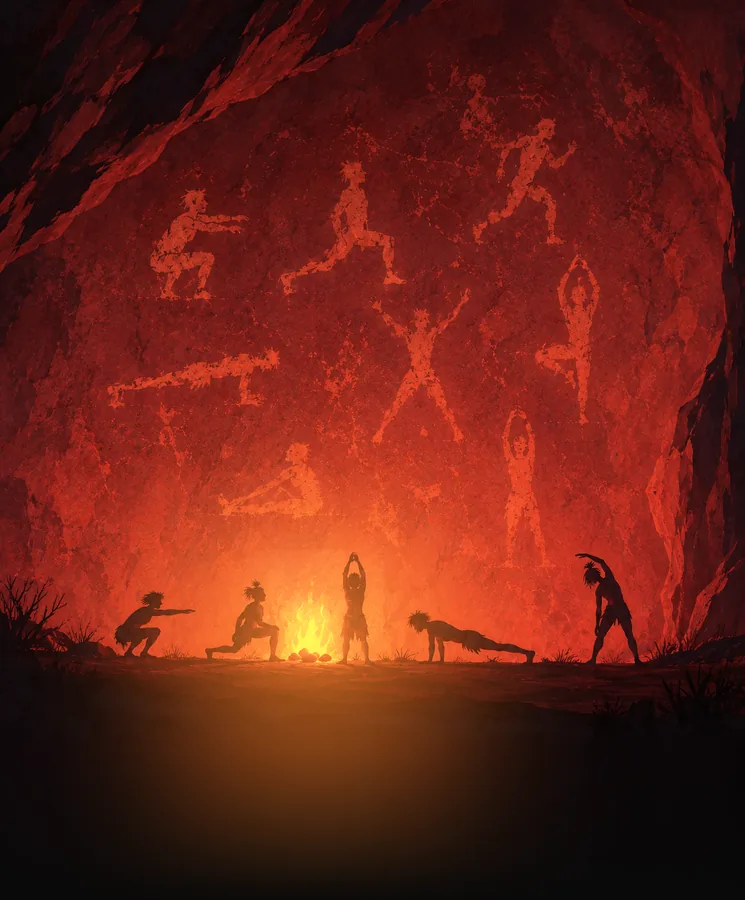
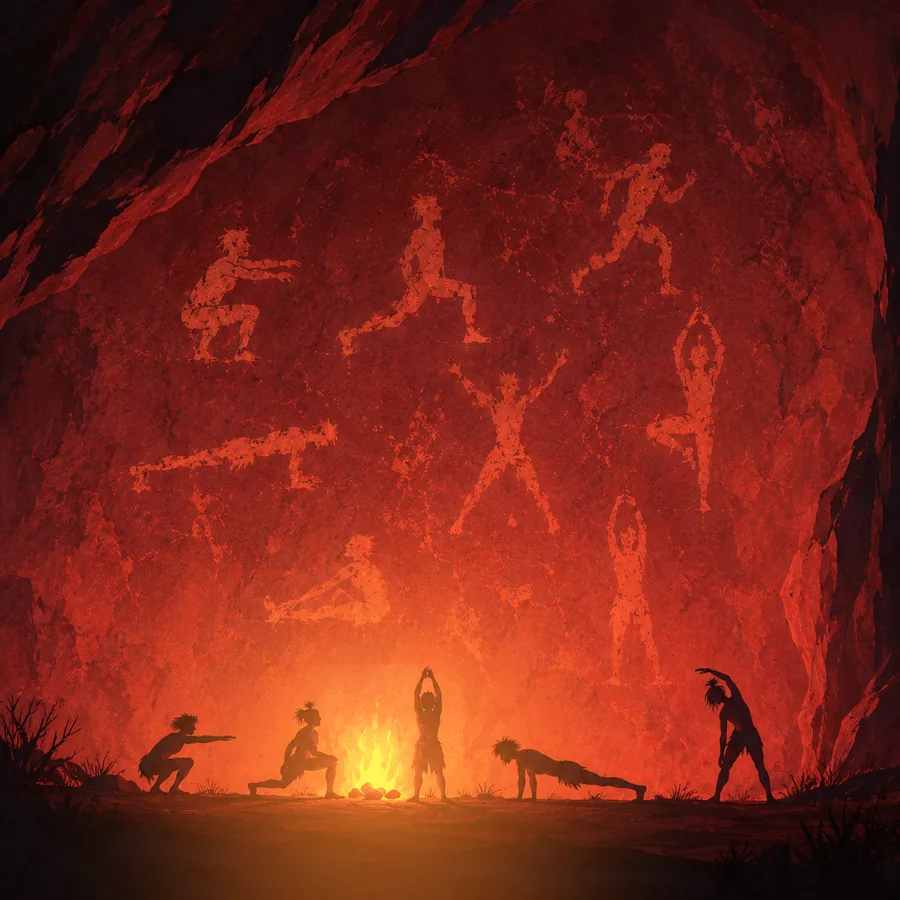
Dashboard: the cave ends on its own ground under the figures, Start Training just below (31b, Kd)

diff --git a/apps/mobile/src/look/colours.ts b/apps/mobile/src/look/colours.ts
@@ -75,7 +75,7 @@ export const pictureFadeUnderWords =
 
 /** The same, kept off the picture's lower part, where its own light is the point (the Dashboard's fire). */
 export const pictureFadeLight =
-  "linear-gradient(to top, rgba(10,9,8,1) 0%, rgba(10,9,8,0.6) 10%, rgba(10,9,8,0) 24%, rgba(10,9,8,0) 72%, rgba(10,9,8,0.55) 100%)";
+  "linear-gradient(to top, rgba(10,9,8,1) 0%, rgba(10,9,8,0.45) 7%, rgba(10,9,8,0) 13%, rgba(10,9,8,0) 72%, rgba(10,9,8,0.55) 100%)";
 
 /** The glow of what is pressed, the ring round a box being typed in, and the lift of a box from the bottom. */
 export const shadows = {

diff --git a/apps/mobile/src/screens/Dashboard.tsx b/apps/mobile/src/screens/Dashboard.tsx
@@ -100,7 +100,7 @@ export function DashboardScreen() {
         <PictureTop
           picture="cave"
           // The picture's own shape, so none of it is cut; its fire is not dimmed.
-          tall={1.208}
+          tall={1}
           fade="light"
           above={
             <View style={styles.hello}>
